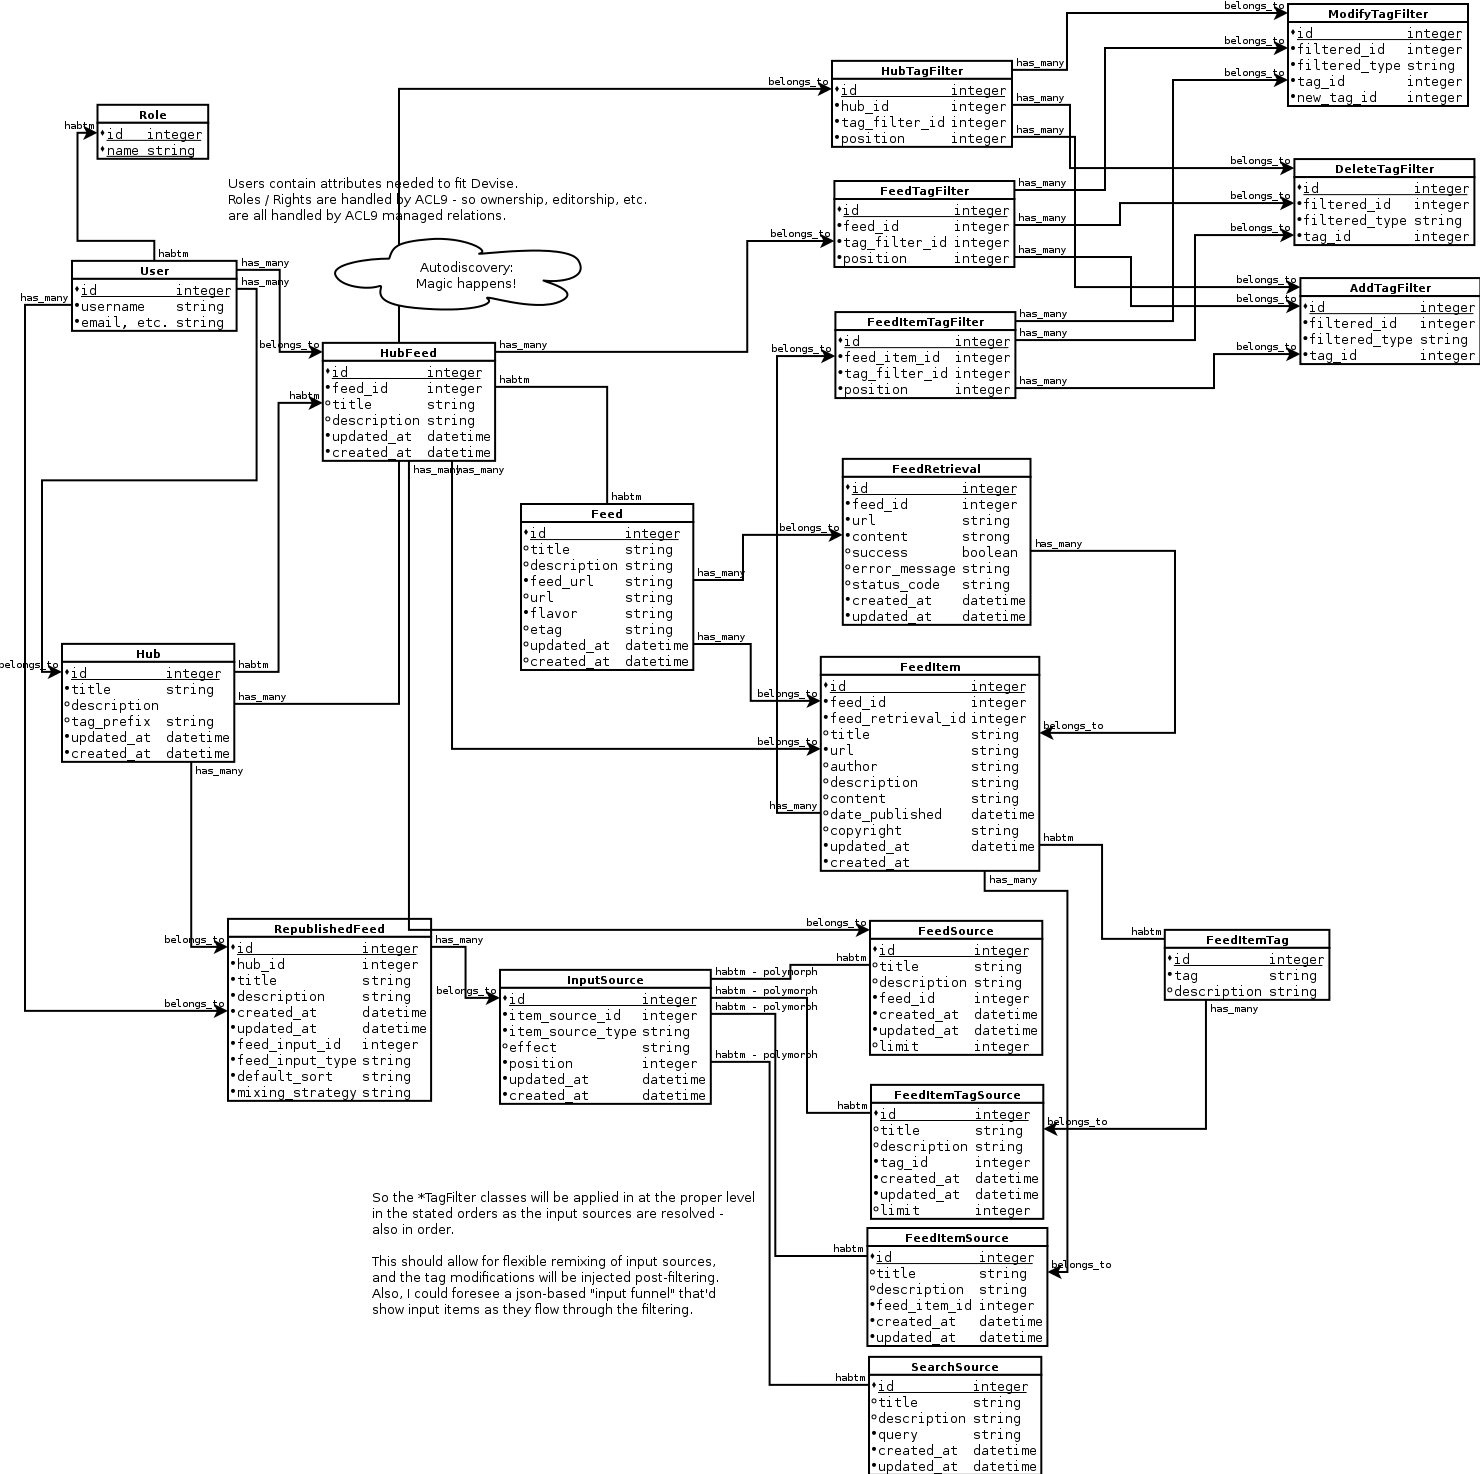
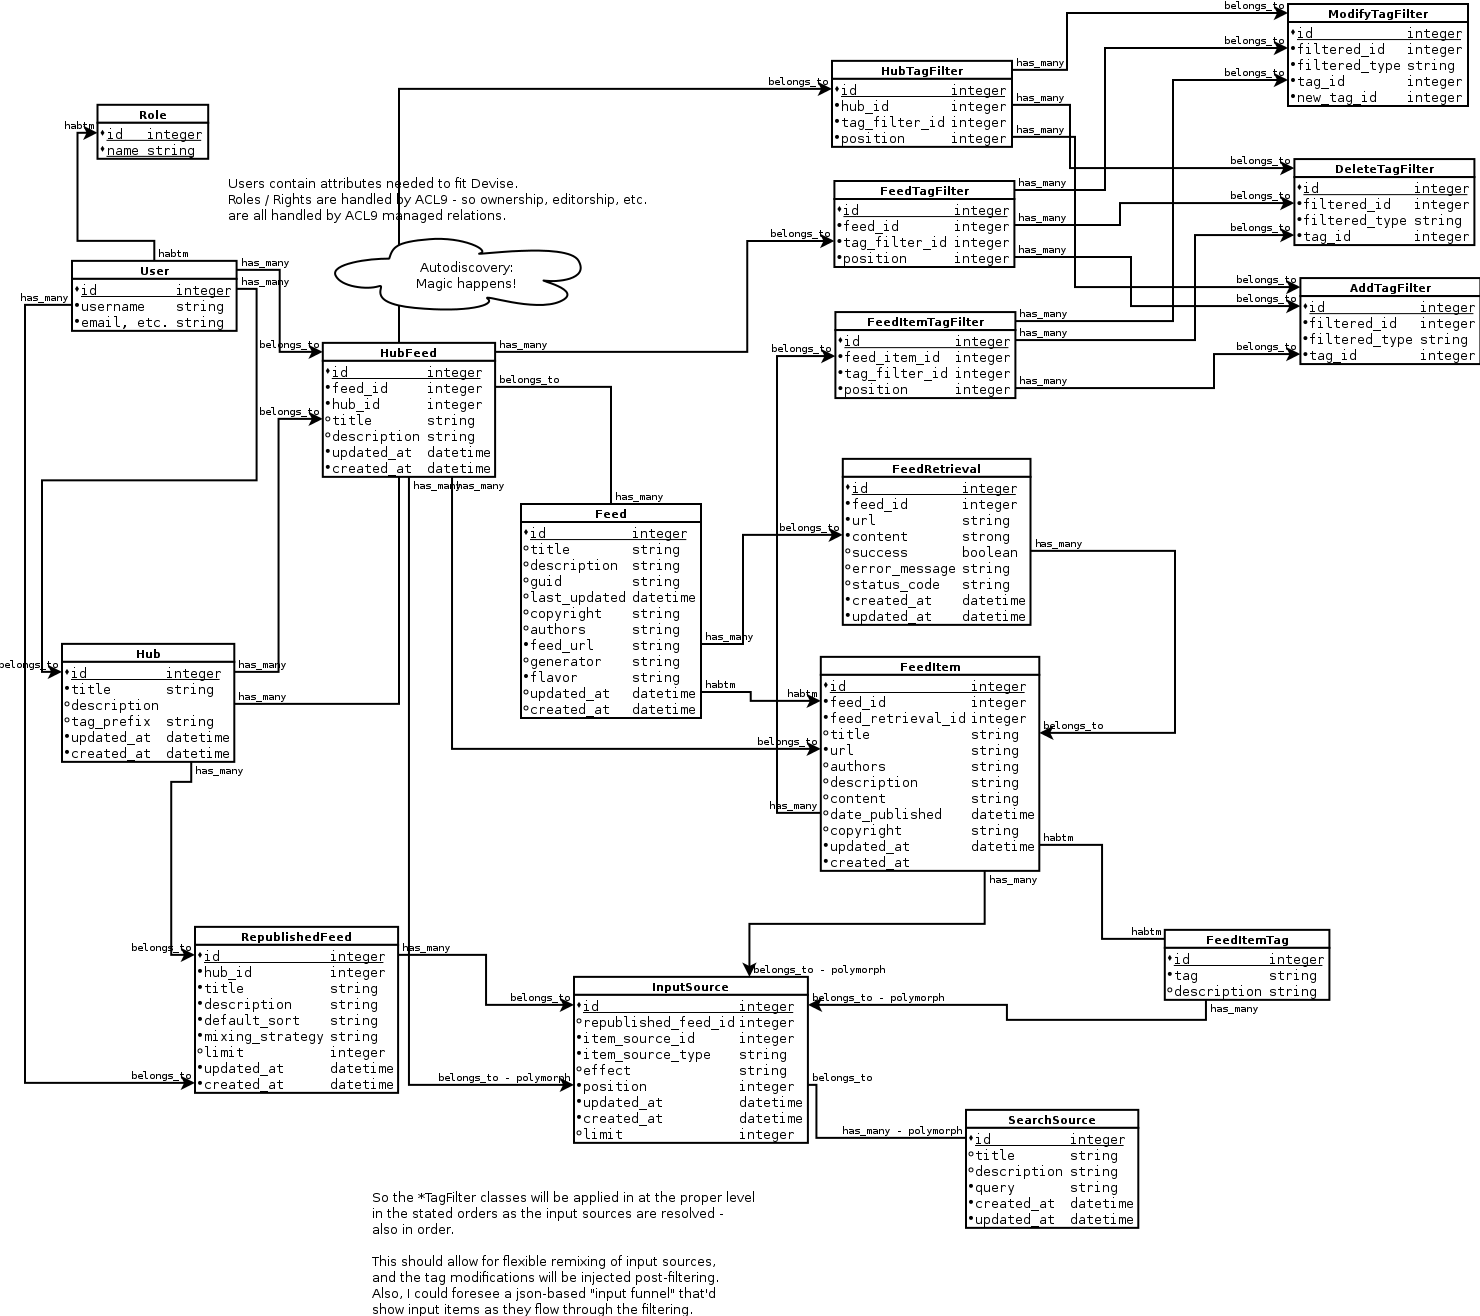
Getting there as far as modelling feed republishing.

Changed region(s): [[0.0311, 0.0, 1.0, 1.0], [0.0, 0.4362, 0.2176, 0.5919], [0.0311, 0.0623, 0.1554, 0.1246]]

diff --git a/db/schema.rb b/db/schema.rb
@@ -10,7 +10,7 @@
 #
 # It's strongly recommended to check this file into your version control system.
 
-ActiveRecord::Schema.define(:version => 20110811154645) do
+ActiveRecord::Schema.define(:version => 20110815194631) do
 
   create_table "feed_item_tags", :force => true do |t|
     t.string   "tag",                         :null => false
@@ -30,7 +30,6 @@ ActiveRecord::Schema.define(:version => 20110811154645) do
   add_index "feed_item_tags_feed_items", ["feed_item_tag_id"], :name => "index_feed_item_tags_feed_items_on_feed_item_tag_id"
 
   create_table "feed_items", :force => true do |t|
-    t.integer  "feed_id"
     t.integer  "feed_retrieval_id"
     t.string   "title",             :limit => 500
     t.string   "url",               :limit => 2048
@@ -43,8 +42,8 @@ ActiveRecord::Schema.define(:version => 20110811154645) do
     t.datetime "updated_at"
   end
 
+  add_index "feed_items", ["author"], :name => "index_feed_items_on_author"
   add_index "feed_items", ["date_published"], :name => "index_feed_items_on_date_published"
-  add_index "feed_items", ["feed_id"], :name => "index_feed_items_on_feed_id"
   add_index "feed_items", ["feed_retrieval_id"], :name => "index_feed_items_on_feed_retrieval_id"
   add_index "feed_items", ["url"], :name => "index_feed_items_on_url", :unique => true
 
@@ -65,6 +64,18 @@ ActiveRecord::Schema.define(:version => 20110811154645) do
     t.datetime "created_at"
     t.datetime "updated_at"
   end
+
+  create_table "feed_sources", :force => true do |t|
+    t.string   "title",       :limit => 500
+    t.string   "description", :limit => 5120
+    t.integer  "feed_id",                     :null => false
+    t.datetime "created_at"
+    t.datetime "updated_at"
+  end
+
+  add_index "feed_sources", ["description"], :name => "index_feed_sources_on_description"
+  add_index "feed_sources", ["feed_id"], :name => "index_feed_sources_on_feed_id"
+  add_index "feed_sources", ["title"], :name => "index_feed_sources_on_title"
 
   create_table "feeds", :force => true do |t|
     t.string   "title",        :limit => 500
@@ -118,18 +129,36 @@ ActiveRecord::Schema.define(:version => 20110811154645) do
   add_index "hubs", ["tag_prefix"], :name => "index_hubs_on_tag_prefix"
   add_index "hubs", ["title"], :name => "index_hubs_on_title"
 
-  create_table "republished_feeds", :force => true do |t|
-    t.integer  "hub_id"
-    t.string   "title"
-    t.string   "description"
-    t.string   "feed_input_type"
-    t.integer  "feed_input_id"
-    t.string   "default_sort"
-    t.string   "mixing_strategy"
-    t.integer  "item_limit"
+  create_table "input_sources", :force => true do |t|
+    t.integer  "republished_feed_id",                                   :null => false
+    t.integer  "item_source_id",                                        :null => false
+    t.string   "item_source_type",    :limit => 100,                    :null => false
+    t.string   "effect",              :limit => 25,  :default => "add", :null => false
+    t.integer  "position"
+    t.integer  "limit"
     t.datetime "created_at"
     t.datetime "updated_at"
   end
+
+  add_index "input_sources", ["effect"], :name => "index_input_sources_on_effect"
+  add_index "input_sources", ["item_source_id"], :name => "index_input_sources_on_item_source_id"
+  add_index "input_sources", ["item_source_type"], :name => "index_input_sources_on_item_source_type"
+  add_index "input_sources", ["position"], :name => "index_input_sources_on_position"
+  add_index "input_sources", ["republished_feed_id"], :name => "index_input_sources_on_republished_feed_id"
+
+  create_table "republished_feeds", :force => true do |t|
+    t.integer  "hub_id"
+    t.string   "title",           :limit => 500,                                :null => false
+    t.string   "description",     :limit => 5120
+    t.string   "default_sort",    :limit => 100,  :default => "date_published"
+    t.string   "mixing_strategy", :limit => 25,   :default => "interlaced"
+    t.integer  "limit",                           :default => 50
+    t.datetime "created_at"
+    t.datetime "updated_at"
+  end
+
+  add_index "republished_feeds", ["hub_id"], :name => "index_republished_feeds_on_hub_id"
+  add_index "republished_feeds", ["title"], :name => "index_republished_feeds_on_title"
 
   create_table "roles", :force => true do |t|
     t.string   "name",              :limit => 40

diff --git a/app/models/feed.rb b/app/models/feed.rb
@@ -22,7 +22,7 @@ class Feed < ActiveRecord::Base
 
 	has_many :hub_feeds
   has_many :feed_retrievals, :order => :created_at
-  has_and_belongs_to_many :feed_items
+  has_and_belongs_to_many :feed_items, :order => 'date_published desc'
   
   validates_uniqueness_of :feed_url
   
@@ -33,16 +33,22 @@ class Feed < ActiveRecord::Base
     fr.status_code = '200'
     fr.save
     
-    #FIXME - make this work with the new habtm relationship to feed.
     self.raw_feed.items.each do|item|
       fi = FeedItem.find_or_initialize_by_url(:url => item.url)
+      if fi.new_record?
+        # Instantiate only for new records.
+        fi.title = item.title
+        fi.author = (item.authors.blank?) ? '' : item.authors.join(',')
+        fi.description = item.description
+        fi.content = item.content
+        fi.copyright = item.copyright
+        fi.date_published = item.date_published
+      end
+
       fi.feed_retrieval_id = fr.id
-      fi.title = item.title
-      fi.author = (item.authors.blank?) ? '' : item.authors.join(',')
-      fi.description = item.description
-      fi.content = item.content
-      fi.copyright = item.copyright
-      fi.date_published = item.date_published
+
+      fi.feeds << self unless fi.feeds.include?(self)
+
       # Merge tags. . .
       fi.tags = item.categories
       fi.save

diff --git a/app/models/hub_feed.rb b/app/models/hub_feed.rb
@@ -4,6 +4,8 @@ class HubFeed < ActiveRecord::Base
   belongs_to :hub
   belongs_to :feed
 
+  after_create :auto_create_republished_feed
+
   validates_uniqueness_of :feed_id, :scope => :hub_id
 
   def display_title
@@ -22,17 +24,41 @@ class HubFeed < ActiveRecord::Base
   end
 
   def latest_feed_items
-    self.latest_feed_retrieval.feed_items
+    self.feed.feed_items.limit(15)
   rescue Exception => e
     logger.warn(e.inspect)
     []
   end
 
   def latest_feed_tags
-    self.latest_feed_items.collect{|fi| fi.feed_item_tags}.flatten.uniq.compact
+    self.latest_feed_items.includes(:feed_item_tags).collect{|fi| fi.feed_item_tags}.flatten.uniq.compact
   rescue Exception => e
     logger.warn(e.inspect)
     return []
+  end
+
+  def auto_create_republished_feed
+    rf = RepublishedFeed.new(
+      :hub_id => self.hub_id, 
+      :title => self.feed.title, 
+      :description => self.feed.description,
+      :default_sort => 'date_published',
+      :mixing_strategy => 'date',
+      :limit => 50
+    )
+    rf.save
+
+    logger.warn('RF: ' + rf.inspect)
+
+    is = InputSource.new(
+      :republished_feed_id => rf.id, 
+      :item_source => self.feed ,
+      :effect => 'add',
+      :position => 1,
+      :limit => 50
+    )
+    is.save
+
   end
 
 end

diff --git a/db/migrate/20110726185850_create_republished_feeds.rb b/db/migrate/20110726185850_create_republished_feeds.rb
@@ -1,17 +1,21 @@
 class CreateRepublishedFeeds < ActiveRecord::Migration
+
   def self.up
     create_table :republished_feeds do |t|
       t.integer :hub_id
-      t.string :title
-      t.string :description
-      t.string :feed_input_type
-      t.integer :feed_input_id
-      t.string :default_sort
-      t.string :mixing_strategy
-      t.integer :item_limit
+      t.string :title,            :limit => 500.bytes,    :null => false
+      t.string :description,      :limit => 5.kilobytes
+      t.string :default_sort,     :limit => 100.bytes,          :default => 'date_published'
+      t.string :mixing_strategy,  :limit => 25.bytes,           :default => 'interlaced'
+      t.integer :limit,           :default => 50
 
       t.timestamps
     end
+
+    [:hub_id, :title].each do|col|
+      add_index :republished_feeds, col
+    end
+
   end
 
   def self.down

diff --git a/db/migrate/20110815182850_create_input_sources.rb b/db/migrate/20110815182850_create_input_sources.rb
@@ -1,0 +1,23 @@
+class CreateInputSources < ActiveRecord::Migration
+  def self.up
+    create_table :input_sources do |t|
+      t.integer :republished_feed_id,     :null => false
+      t.integer :item_source_id,          :null => false
+      t.string :item_source_type,         :limit => 100.bytes,    :null => false
+      t.string :effect,                   :limit => 25.bytes,     :null => false,   :default => 'add'
+      t.integer :position
+      t.integer :limit
+
+      t.timestamps
+    end
+
+    [:republished_feed_id, :item_source_id, :item_source_type, :effect, :position].each do |col|
+      add_index :input_sources, col
+    end
+
+  end
+
+  def self.down
+    drop_table :input_sources
+  end
+end

diff --git a/db/migrate/20110726122511_create_feed_items.rb b/db/migrate/20110726122511_create_feed_items.rb
@@ -1,7 +1,6 @@
 class CreateFeedItems < ActiveRecord::Migration
   def self.up
     create_table :feed_items do |t|
-      t.integer :feed_id
       t.integer :feed_retrieval_id
       t.string :title,              :limit => 500.bytes
       t.string :url,                :limit => 2.kilobytes
@@ -15,7 +14,7 @@ class CreateFeedItems < ActiveRecord::Migration
       t.timestamps
     end
 
-    [:feed_id, :feed_retrieval_id, :date_published].each do|col|
+    [:feed_retrieval_id, :date_published, :author].each do|col|
       add_index :feed_items, col
     end
 

diff --git a/db/migrate/20110714150903_devise_create_users.rb b/db/migrate/20110714150903_devise_create_users.rb
@@ -23,6 +23,12 @@ class DeviseCreateUsers < ActiveRecord::Migration
     add_index :users, :confirmation_token,   :unique => true
     add_index :users, :unlock_token,         :unique => true
     # add_index :users, :authentication_token, :unique => true
+
+    if Rails.env == 'development'
+      u = User.new(:email => 'admin@example.com', :password => 'foobar', :password_confirmation => "foobar")
+      u.save
+    end
+
   end
 
   def self.down

diff --git a/app/models/hub.rb b/app/models/hub.rb
@@ -4,9 +4,9 @@ class Hub < ActiveRecord::Base
 
   attr_accessible :title, :description, :tag_prefix
   acts_as_authorization_object
-  has_many :hub_feeds
-  has_many :hub_tag_filters
-  has_many :republished_feeds
+  has_many :hub_feeds, :dependent => :destroy
+  has_many :hub_tag_filters, :dependent => :destroy
+  has_many :republished_feeds, :dependent => :destroy
   has_many :feeds, :through => :hub_feeds
 
   def to_s

diff --git a/app/models/republished_feed.rb b/app/models/republished_feed.rb
@@ -1,2 +1,15 @@
 class RepublishedFeed < ActiveRecord::Base
+
+  include ModelExtensions
+
+  SORTS = ['date_published', 'title']
+  MIXING_STRATEGIES = ['interlaced','date']
+
+  belongs_to :hub
+  has_many :input_sources, :dependent => :destroy, :order => :position 
+
+  def resolved_items
+    #here's where we'll iterate through input_sources, add or subtract them and come to a final list of items.
+  end
+
 end

diff --git a/app/models/input_source.rb b/app/models/input_source.rb
@@ -1,0 +1,12 @@
+class InputSource < ActiveRecord::Base
+  include ModelExtensions
+
+  EFFECTS = ['add','remove']
+
+  belongs_to :republished_feed
+  belongs_to :item_source, :polymorphic => true
+
+  acts_as_list :scope => :republished_feed_id
+  validates_inclusion_of :effect, :in => EFFECTS
+  
+end

diff --git a/spec/models/input_source_spec.rb b/spec/models/input_source_spec.rb
@@ -1,0 +1,5 @@
+require 'spec_helper'
+
+describe InputSource do
+  pending "add some examples to (or delete) #{__FILE__}"
+end
